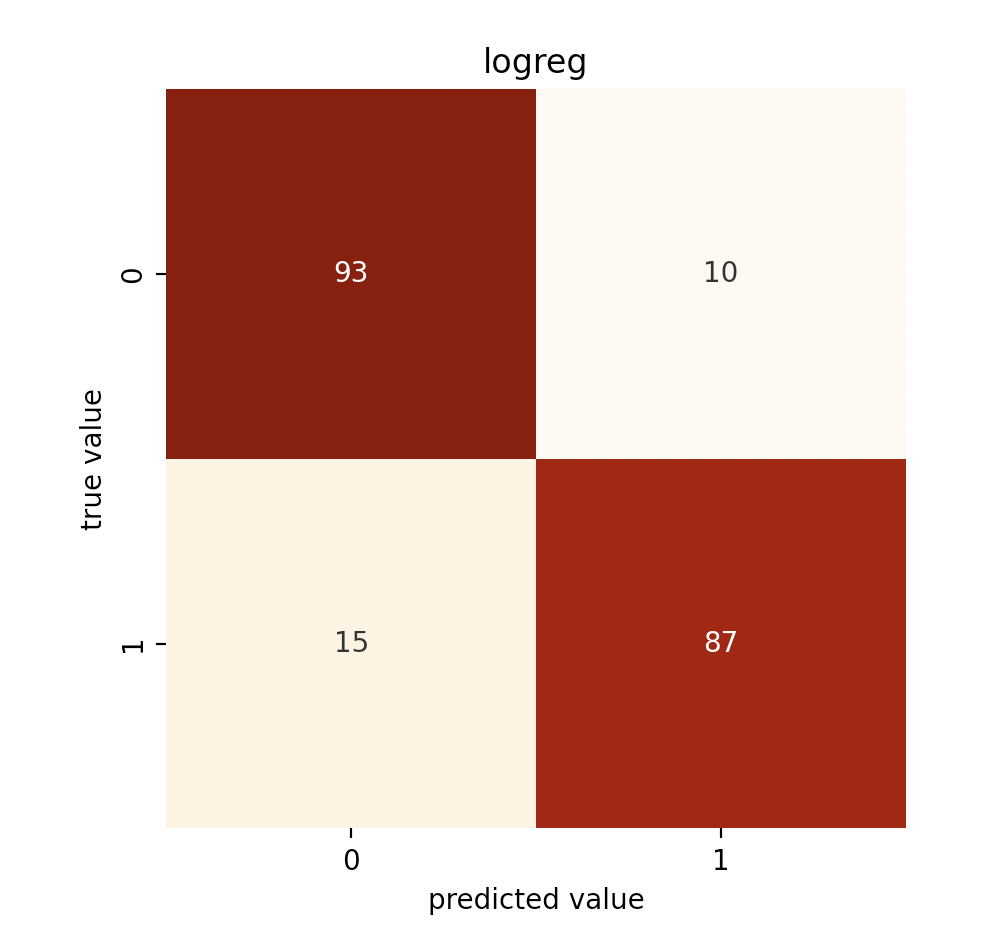
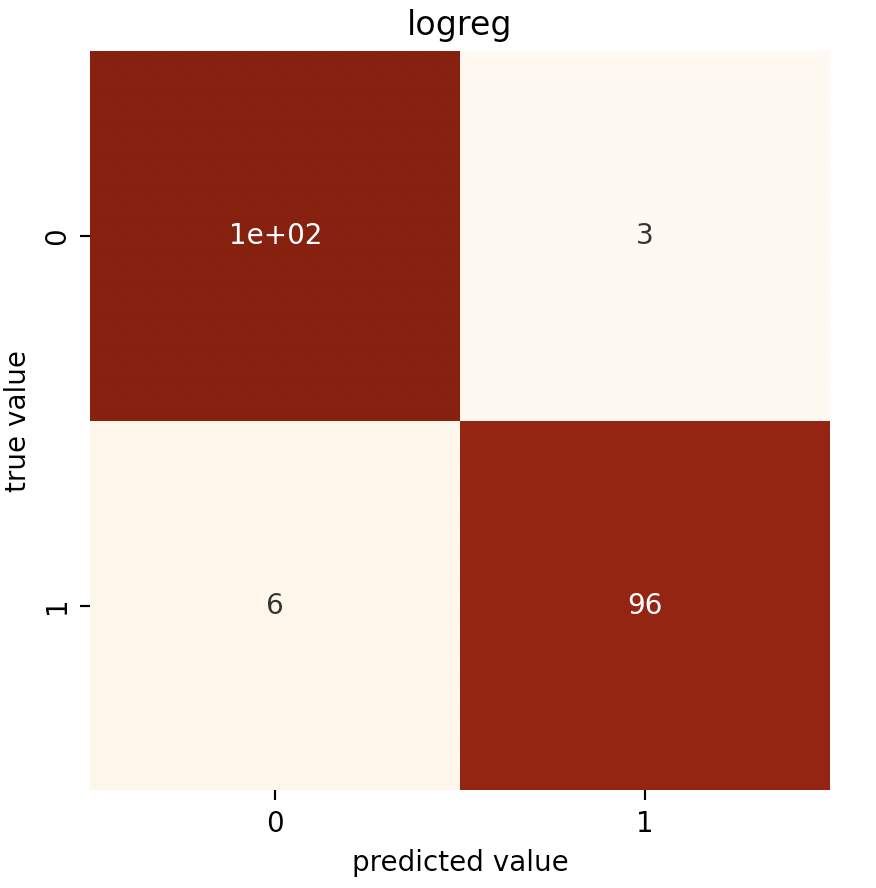
fixing euc distances

diff --git a/src/sc_logreg_ex.py b/src/sc_logreg_ex.py
@@ -80,21 +80,23 @@ def main():
     # print('Partition 2 - Feature selection')
     # num_features_selected = rec_feature_tune(df,norm_cols[0])
     # print('Partition 2 - With Feature selection')
-    # rec_feature_select(df,main_predictors,num_features_selected)
-    # print('Partition 2 - With Feature selection & downsampled')
+    rec_feature_select(df,norm_cols[0],29)
+    print('Partition 2 - With Feature selection & downsampled')
+    df_downsampled = downsample(df)
+    rec_feature_select(df_downsampled,norm_cols[0],29)
+
+
+    # print('Testing out boxratio + specific eucdistances')
+    # df = get_data('data/merged_landmarks_dist.csv')
+    # predictors_list = ['boxratio','dist_5_7', 'dist_7_9', 'dist_7_48', 'dist_18_25', 'dist_21_22', 'dist_33_42']
+    # print('Partition 3 - Without feature selection')
+    # without_f(df,predictors_list) 
+    # print('Partition 3 - Feature selection')
+    # num_features_selected = rec_feature_tune(df,predictors_list)
+    # print('Partition 3 - With Feature selection')
+    # rec_feature_select(df,predictors_list,num_features_selected)
     # df_downsampled = downsample(df)
-    # rec_feature_select(df_downsampled,main_predictors,num_features_selected)
-
-
-    print('Testing out boxratio + specific eucdistances')
-    df = get_data('data/merged_landmarks_dist.csv')
-    predictors_list = ['boxratio','dist_7_41','dist_21_22', 'dist_22_25', 'dist_33_65']
-    print('Partition 3 - Without feature selection')
-    without_f(df,predictors_list) 
-    print('Partition 3 - Feature selection')
-    num_features_selected = rec_feature_tune(df,predictors_list)
-    print('Partition 3 - With Feature selection')
-    rec_feature_select(df,predictors_list,num_features_selected)
+    # rec_feature_select(df_downsampled,predictors_list,num_features_selected)
 
 
 if __name__ == "__main__":

diff --git a/src/sc_logreg_euc_ex.py b/src/sc_logreg_euc_ex.py
@@ -25,7 +25,7 @@ def test_logreg_dist(df,predictors_list,desired_feaatures):
         
         X,y = get_Xy(df,selected)
         y = np.ravel(y)
-        Xtest, ytest, fitted, y_pred = logreg(X,y)
+        Xtrain, Xtest, ytrain, ytest, fitted, y_pred = logreg(X,y)
         acc = fitted.score(Xtest,ytest)
         accuracy.append(acc)
         print("Features: {} , Accuracy: {}".format(n,acc))
@@ -36,7 +36,7 @@ def test_logreg_dist(df,predictors_list,desired_feaatures):
         downsample_df = downsample(df)
         X,y = get_Xy(downsample_df,selected)
         y = np.ravel(y)
-        Xtest, ytest, fitted, y_pred = logreg(X,y)
+        Xtrain, Xtest, ytrain, ytest, fitted, y_pred = logreg(X,y)
         acc = fitted.score(Xtest,ytest)
         accuracy.append(acc)
         print("Features: {} , Accuracy: {}".format(n,acc))
@@ -50,7 +50,7 @@ def main():
     _,all_d_coords = get_categories(df)
 
     print('All coordinates')
-    test_logreg_dist(df,all_d_coords,4)
+    test_logreg_dist(df,all_d_coords,6)
 
     print('Heuristically chosen coordinates')
     special_dist = {'LBW':'17_21','RBW':'22_26','innerB_dist':'21_22','outerB_dist':'17_26','LEW':'36_39','REW':'42_45',

diff --git a/src/util/sc_feature_selection.py b/src/util/sc_feature_selection.py
@@ -86,17 +86,19 @@ def rec_feature_selection(estimator,num_features,X,y,predictors_list):
 
     return Xtrain, Xtest, ytrain, ytest, y_pred, selected_features
 
-def fwd_feature_selection(X,y,predictors_list,n_features, estimator):
+def fwd_feature_selection(X,y,predictors_list,n_features, estimator=LogisticRegression()):
     '''
     Forward feature selection.
     Returns a list of selected features.
     '''
-    y_flat = np.ravel(y)
-    Xtrain, Xtest, ytrain, ytest = tt_split(X,y_flat)
-    selector = SequentialFeatureSelector(estimator=estimator, n_features_to_select=n_features, n_jobs = -1)
-    fitted = selector.fit(Xtrain, ytrain)
-    y_pred = fitted.predict(Xtest)
-    
-    selected_features = [i for (i, v) in zip(predictors_list,list(selector.get_support())) if v]
+    y = np.ravel(y)
+    estimator = estimator
+    fwdfs = SequentialFeatureSelector(estimator=estimator, 
+    n_features_to_select=n_features, 
+    n_jobs = -1)
 
-    return Xtrain, Xtest, ytrain, ytest, y_pred, selected_features
+    fwdfs.fit(X, y)
+    
+    selected_features = [i for (i, v) in zip(predictors_list,list(fwdfs.get_support())) if v]
+
+    return selected_features

diff --git a/notes/sc_notes_dist_logreg.md b/notes/sc_notes_dist_logreg.md
@@ -20,34 +20,48 @@ For this model exploration I created additional metadata which computed the eucl
 We approached this idea from 2 ways. We first wanted to see given **all** the information (euc distance from every point to every other point) what distances/features would the model choose, and how many would the model need until we got to a decent accuracy and recall score? We also were curious about what order it added those features in. 
 
 **One feature**
-Feature selected: ['dist_7_41'] (distance from the left chin to left eye)
-* Accuracy score: 0.76 (no downsampling)
-* Accuracy score: 0.83 (downsampling)
-* Recall score adult: 0.92 (downsampling)
-* Recall score baby: 0.74 (downsampling)
+Feature selected: ['dist_7_48'] (distance from the left chin to left mouth corner)
+* Accuracy score: 0.74 (no downsampling)
+* Accuracy score: 0.82 (downsampling)
+* Recall score adult: 0.86 (downsampling)
+* Recall score baby: 0.78 (downsampling)
 
 **Two feature**
-Feature selected: ['dist_7_41', 'dist_22_25'] (new is right eyebrow width)
-* Accuracy score: 0.85 (no downsampling)
-* Accuracy score: 0.90 (downsampling)
-* Recall score adult: 0.94 (downsampling)
-* Recall score baby: 0.87 (downsampling)
+Feature selected: ['dist_7_48', 'dist_33_42'] (new is nose to right eye corner)
+* Accuracy score: 0.83 (no downsampling)
+* Accuracy score: 0.91 (downsampling)
+* Recall score adult: 0.93 (downsampling)
+* Recall score baby: 0.89 (downsampling)
 
 **Three feature**
-Feature selected: ['dist_7_41', 'dist_21_22', 'dist_22_25'] (new is distance between eyebrows)
-* Accuracy score: 0.87 (no downsampling)
-* Accuracy score: 0.93 (downsampling)
-* Recall score adult: 0.96 (downsampling)
+Feature selected: ['dist_7_48', 'dist_21_22', 'dist_33_42'] (new is distance between eyebrows)
+* Accuracy score: 0.91 (no downsampling)
+* Accuracy score: 0.94 (downsampling)
+* Recall score adult: 0.98 (downsampling)
 * Recall score baby: 0.89 (downsampling)
 
 **Four feature**
-Feature selected: ['dist_7_41', 'dist_21_22', 'dist_22_25', 'dist_33_65'] (new is distance from mouth to nose)
-* Accuracy score: 0.93 (no downsampling)
-* Accuracy score: 0.99 (downsampling)
-* Recall score adult: 1.00 (downsampling)
-* Recall score baby: 0.97 (downsampling)
+Feature selected: ['dist_7_48','dist_18_25','dist_21_22', 'dist_33_42'] (new is distance from mid eyebrow to mid eyebrow)
+* Accuracy score: 0.94 (no downsampling)
+* Accuracy score: 0.98 (downsampling)
+* Recall score adult: 0.98 (downsampling)
+* Recall score baby: 0.98 (downsampling)
 
-<img src="soph_logreg/algo_baby.png" width=600>
+**Five feature**
+Feature selected: ['dist_7_9', 'dist_7_48', 'dist_18_25', 'dist_21_22', 'dist_33_42']
+* Accuracy score: 0.95 (no downsampling)
+* Accuracy score: 0.98 (downsampling)
+* Recall score adult: .98 (downsampling)
+* Recall score baby:  .97 (downsampling)
+
+**Six feature**
+Feature selected: ['dist_5_7', 'dist_7_9', 'dist_7_48', 'dist_18_25', 'dist_21_22', 'dist_33_42']
+* Accuracy score: 0.97 (no downsampling)
+* Accuracy score: 0.98 (downsampling)
+* Recall score adult: .98 (downsampling)
+* Recall score baby:  .98 (downsampling)
+
+<img src="soph_logreg/6_baby.png" width=600>
 
 We then wanted to see given only some distances, would the classifier be able to generate a good score? We heuristically chose these landmarks based on what we thought would be valuable. The distances chosen are as follows:
 Left(L) brow width(W)
@@ -82,32 +96,32 @@ Visual representation of what we picked:
 <img src="soph_logreg/h_baby.png" width=600>
 
 **One feature**
-Feature selected: ['dist_21_22'] (distance between inner brows)
+Feature selected: ['dist_7_48']
 * Accuracy score: 0.74 (no downsampling)
-* Accuracy score: 0.76 (downsampling)
-* Recall score adult: 0.82 (downsampling)
-* Recall score baby: 0.70 (downsampling)
-
-**Two feature**
-Feature selected: ['dist_21_22', 'dist_48_54'] (mouth width)
-* Accuracy score: 0.81 (no downsampling)
-* Accuracy score: 0.86 (downsampling)
-* Recall score adult: 0.94 (downsampling)
+* Accuracy score: 0.82 (downsampling)
+* Recall score adult: 0.86 (downsampling)
 * Recall score baby: 0.78 (downsampling)
 
+**Two feature**
+Feature selected: ['dist_7_48', 'dist_33_42']
+* Accuracy score: 0.83 (no downsampling)
+* Accuracy score: 0.91 (downsampling)
+* Recall score adult: 0.93 (downsampling)
+* Recall score baby: 0.89 (downsampling)
+
 **Three feature**
-Feature selected: ['dist_21_22', 'dist_48_54', 'dist_27_62'] (from between eyes to top of mouth)
-* Accuracy score: 0.84 (no downsampling)
-* Accuracy score: 0.93 (downsampling)
-* Recall score adult: 0.96 (downsampling)
+Feature selected: [['dist_7_48', 'dist_21_22', 'dist_33_42']
+* Accuracy score: 0.91 (no downsampling)
+* Accuracy score: 0.94 (downsampling)
+* Recall score adult: 0.98 (downsampling)
 * Recall score baby: 0.89 (downsampling)
 
 **Four feature**
-Feature selected: ['dist_21_22', 'dist_17_26', 'dist_48_54', 'dist_27_62']
-* Accuracy score: 0.85 (no downsampling)
-* Accuracy score: 0.94 (downsampling)
-* Recall score adult: .92 (downsampling)
-* Recall score baby:  .95 (downsampling)
+Feature selected: ['dist_7_48', 'dist_18_25', 'dist_21_22', 'dist_33_42']
+* Accuracy score: 0.94 (no downsampling)
+* Accuracy score: 0.98 (downsampling)
+* Recall score adult: .98 (downsampling)
+* Recall score baby:  .98 (downsampling)
 
 <img src="soph_logreg/myh_baby.png" width=600>
 

diff --git a/notes/sc_summary_logreg.md b/notes/sc_summary_logreg.md
@@ -27,44 +27,67 @@ After generating the pairwise euclidian distances, it became really obvious that
 We also used downsampling here given the sucess of downsampling with the previous set of features.
 
 We found that the classifier produced a pretty good score with just one feature, the euclidian distance from the left chin to left eye.
-* Accuracy score: 0.83 (downsampling)
-* Recall score adult: 0.92 (downsampling)
-* Recall score baby: 0.74 (downsampling)
+**One feature**
+Feature selected: ['dist_7_48'] (distance from the left chin to left mouth corner)
+* Accuracy score: 0.74 (no downsampling)
+* Accuracy score: 0.82 (downsampling)
+* Recall score adult: 0.86 (downsampling)
+* Recall score baby: 0.78 (downsampling)
 
 We saw that adding more features did yeild improvements until 4 around features.
 
-Second (right eyebrow width)
-* Accuracy score: 0.90 (downsampling)
-* Recall score adult: 0.94 (downsampling)
-* Recall score baby: 0.87 (downsampling)
-
-Third (distance between eyebrows) 
-* Accuracy score: 0.93 (downsampling)
-* Recall score adult: 0.96 (downsampling)
+**Two feature**
+Feature selected: ['dist_7_48', 'dist_33_42'] (new is nose to right eye corner)
+* Accuracy score: 0.83 (no downsampling)
+* Accuracy score: 0.91 (downsampling)
+* Recall score adult: 0.93 (downsampling)
 * Recall score baby: 0.89 (downsampling)
 
-Fourth (distance from mouth to nose)
+**Three feature**
+Feature selected: ['dist_7_48', 'dist_21_22', 'dist_33_42'] (new is distance between eyebrows)
+* Accuracy score: 0.91 (no downsampling)
 * Accuracy score: 0.94 (downsampling)
-* Recall score adult: .92 (downsampling)
-* Recall score baby:  .95 (downsampling)
+* Recall score adult: 0.98 (downsampling)
+* Recall score baby: 0.89 (downsampling)
 
-<img src="soph_logreg/algo_baby.png" width=600>
+**Four feature**
+Feature selected: ['dist_7_48','dist_18_25','dist_21_22', 'dist_33_42'] (new is distance from mid eyebrow to mid eyebrow)
+* Accuracy score: 0.94 (no downsampling)
+* Accuracy score: 0.98 (downsampling)
+* Recall score adult: 0.98 (downsampling)
+* Recall score baby: 0.98 (downsampling)
+
+**Five feature**
+Feature selected: ['dist_7_9', 'dist_7_48', 'dist_18_25', 'dist_21_22', 'dist_33_42']
+* Accuracy score: 0.95 (no downsampling)
+* Accuracy score: 0.98 (downsampling)
+* Recall score adult: .98 (downsampling)
+* Recall score baby:  .97 (downsampling)
+
+**Six feature**
+Feature selected: ['dist_5_7', 'dist_7_9', 'dist_7_48', 'dist_18_25', 'dist_21_22', 'dist_33_42']
+* Accuracy score: 0.97 (no downsampling)
+* Accuracy score: 0.98 (downsampling)
+* Recall score adult: .98 (downsampling)
+* Recall score baby:  .98 (downsampling)
+
+<img src="soph_logreg/6_baby.png" width=600>
 
 ## Logistic Regression: Bringing it together
-In the first iteration of this exploration, we found that `boxratio` was a good single predictor. In the second iteration, we found other distances that could be useful in classifying baby vs adult faces. Adding these features together (specifically `boxratio` with euclidean distance `'dist_7_41','dist_21_22', 'dist_22_25', 'dist_33_65'`) yeilded a model with:
-* Accuracy score: 0.97
-* Recall score adult: 0.97
-* Recall score baby: 0.96
+In the first iteration of this exploration, we found that `boxratio` was a good single predictor. In the second iteration, we found other distances that could be useful in classifying baby vs adult faces. Adding these features together (specifically `boxratio` with euclidean distance `'dist_5_7', 'dist_7_9', 'dist_7_48', 'dist_18_25', 'dist_21_22', 'dist_33_42'`) yeilded a model with:
+* Accuracy score: 0.96
+* Recall score adult: 0.99
+* Recall score baby: 0.93
 
 Interestingly, the feature selection considered all of them important because each additional distance added accuracy to the model. 
 
-<img src="soph_logreg/boxplus_f_cv.png" width=600>
+<img src="soph_logreg/p3_cv.png" width=600>
 
-I think this is a good model because the accuracy rate and recall scores are quite good and it doesn't require a ton of features (like the 13+ feature models from take 1).
+I think this is a good model because the accuracy rate and recall scores are quite good and it doesn't require a ton of features.
 
-<img src="soph_logreg/boxplus_f_cmat.png" width=600>
+<img src="soph_logreg/p3_f_cmat.png" width=600>
 
-<img src="soph_logreg/boxplus_fd_cmat.png" width=600>
+<img src="soph_logreg/p3_fd_cmat.png" width=600>
 
 
 ## Reproduce Results
